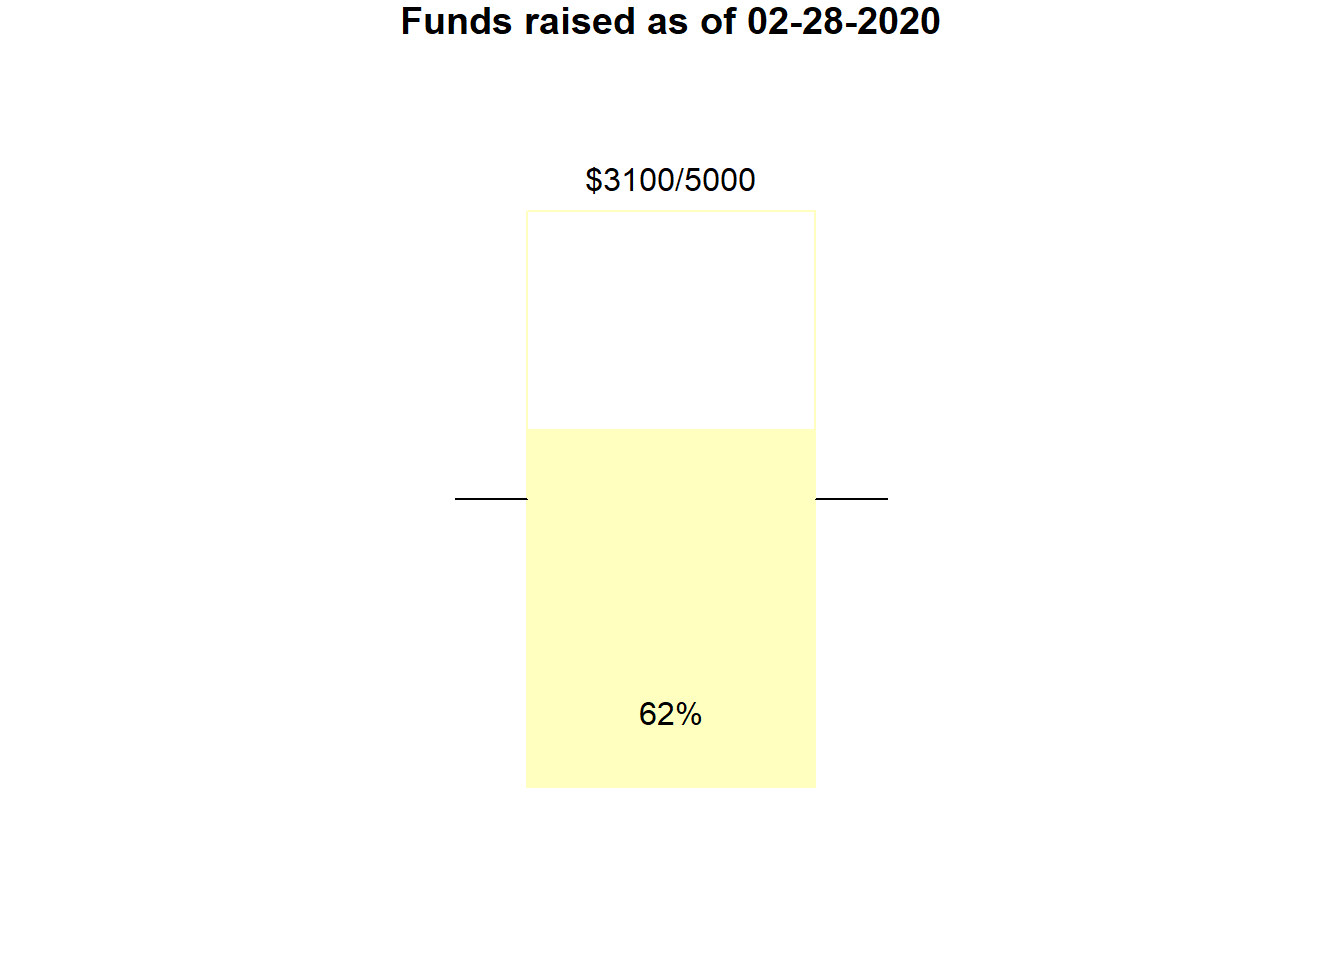
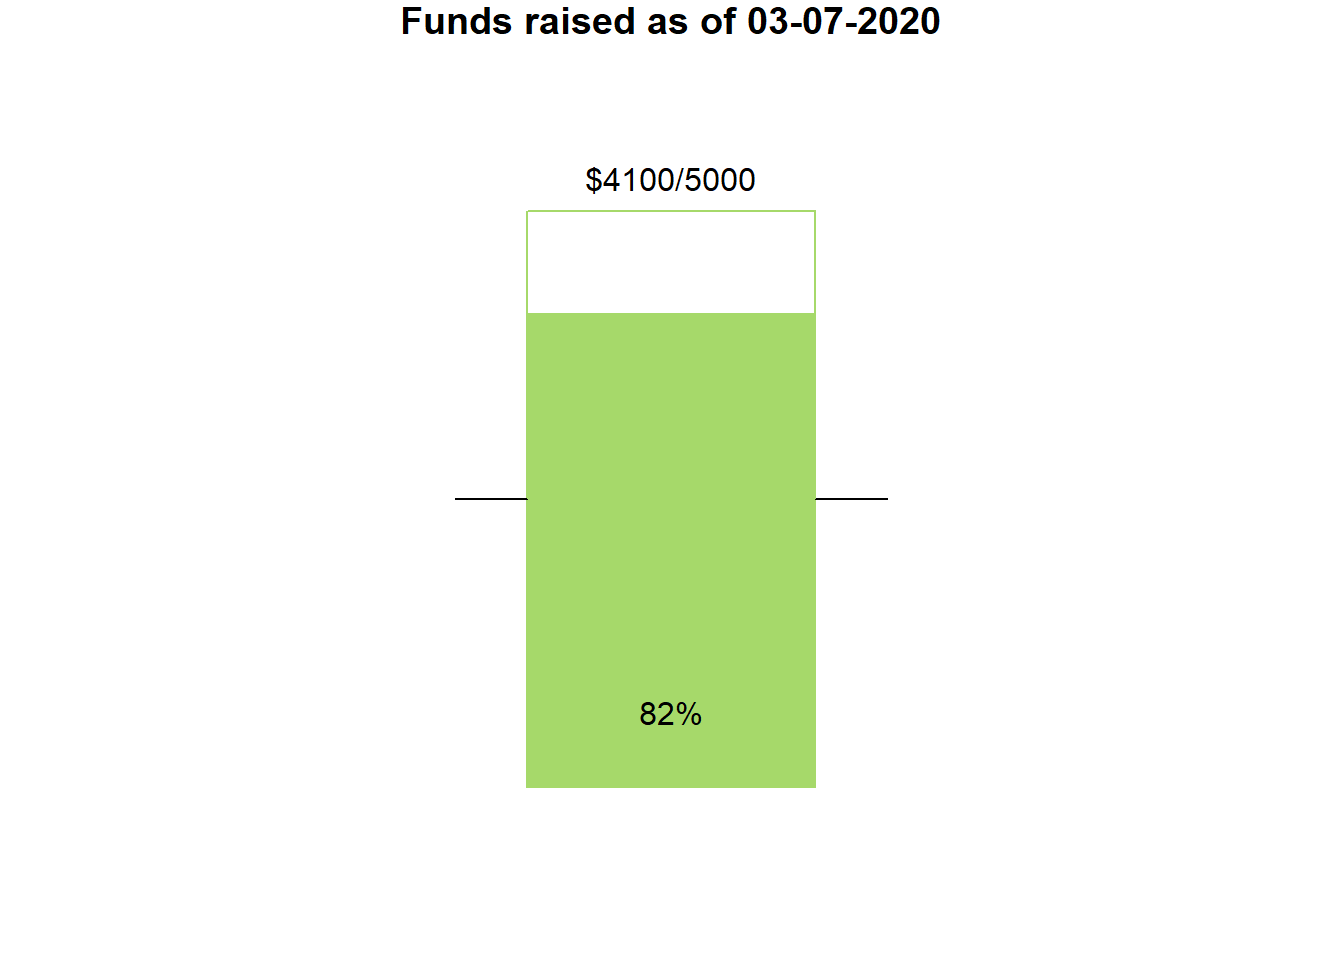
add funds

Changed region(s): [[0.375, 0.3125, 0.625, 0.8438], [0.5625, 0.0, 0.625, 0.0312], [0.4375, 0.1562, 0.4688, 0.2188]]

diff --git a/public/sponsors/index.html b/public/sponsors/index.html
@@ -17,7 +17,7 @@
   <meta name="description" content="Data Fest at Chico State">	
   
 
-  <meta name="generator" content="Hugo 0.58.1" />
+  <meta name="generator" content="Hugo 0.55.6" />
 
   <link href='//fonts.googleapis.com/css?family=Roboto:400,100,100italic,300,300italic,500,700,800' rel='stylesheet' type='text/css'>
 
@@ -190,6 +190,8 @@
 <p>Gifts up to $750 matched dollar-for-dollar!</p>
 
 <p>We are excited to share that ChicoStart is matching up to $500 and SAP Hosting Center has offered to match an additional $250 in dollar-for-dollar matching funds - let&rsquo;s make sure not to leave any of that money on the table! Every $5-10 helps!</p>
+
+<p>Our #CatsGaveBack $499 during Giving Day! Thank you to all our amazing donors!</p>
 
 <hr />
 
@@ -375,8 +377,8 @@ Today, Trinchero Family Estates remains deeply rooted in Napa Valley, encompassi
   <tr><td height= "50"> </td> <td></td></tr>
   
   <tr>
-    <td align="center" markdown="span"><img src="../img/clients/stoble.png" style="width:30%"></img></td>
-    <td>Stoble Coffee will be on site to help keep students caffinated throughout the event! Check them out at <a href="https://www.stobleco.com/">https://www.stobleco.com/</a>
+    <td align="center" markdown="span"><img src="../img/clients/StobleLogo.png" style="width:30%"></img></td>
+    <td>Stoble Coffee will be on site to help keep students caffinated throughout the event! Stoble is a transparent specialty coffee roaster in Chico, working to bring people and their ideas together. Currently under construction on a coffee shop and coworking space coming to downtown Chico this summer. Check out their coffee site <a href="https://www.stobleco.com/">https://www.stobleco.com/</a> and coworking site: <a href="https://www.stobleworkplace.com/">https://www.stobleworkplace.com/</a>
     </td>
   </tr>
   

diff --git a/public/404.html b/public/404.html
@@ -17,7 +17,7 @@
   <meta name="description" content="Data Fest at Chico State">	
   
 
-  <meta name="generator" content="Hugo 0.58.1" />
+  <meta name="generator" content="Hugo 0.55.6" />
 
   <link href='//fonts.googleapis.com/css?family=Roboto:400,100,100italic,300,300italic,500,700,800' rel='stylesheet' type='text/css'>
 

diff --git a/public/about/index.html b/public/about/index.html
@@ -17,7 +17,7 @@
   <meta name="description" content="Data Fest at Chico State">	
   
 
-  <meta name="generator" content="Hugo 0.58.1" />
+  <meta name="generator" content="Hugo 0.55.6" />
 
   <link href='//fonts.googleapis.com/css?family=Roboto:400,100,100italic,300,300italic,500,700,800' rel='stylesheet' type='text/css'>
 

diff --git a/public/blog/2015/06/24/creating-a-new-theme/index.html b/public/blog/2015/06/24/creating-a-new-theme/index.html
@@ -17,7 +17,7 @@
   <meta name="description" content="Data Fest at Chico State">	
   
 
-  <meta name="generator" content="Hugo 0.58.1" />
+  <meta name="generator" content="Hugo 0.55.6" />
 
   <link href='//fonts.googleapis.com/css?family=Roboto:400,100,100italic,300,300italic,500,700,800' rel='stylesheet' type='text/css'>
 

diff --git a/public/blog/2015/07/23/2015-07-23-r-rmarkdown/index.html b/public/blog/2015/07/23/2015-07-23-r-rmarkdown/index.html
@@ -17,7 +17,7 @@
   <meta name="description" content="Data Fest at Chico State">	
   
 
-  <meta name="generator" content="Hugo 0.58.1" />
+  <meta name="generator" content="Hugo 0.55.6" />
 
   <link href='//fonts.googleapis.com/css?family=Roboto:400,100,100italic,300,300italic,500,700,800' rel='stylesheet' type='text/css'>
 

diff --git a/public/blog/2015/08/03/hugo-is-for-lovers/index.html b/public/blog/2015/08/03/hugo-is-for-lovers/index.html
@@ -17,7 +17,7 @@
   <meta name="description" content="Data Fest at Chico State">	
   
 
-  <meta name="generator" content="Hugo 0.58.1" />
+  <meta name="generator" content="Hugo 0.55.6" />
 
   <link href='//fonts.googleapis.com/css?family=Roboto:400,100,100italic,300,300italic,500,700,800' rel='stylesheet' type='text/css'>
 

diff --git a/public/blog/2015/09/17/go-is-for-lovers/index.html b/public/blog/2015/09/17/go-is-for-lovers/index.html
@@ -17,7 +17,7 @@
   <meta name="description" content="Data Fest at Chico State">	
   
 
-  <meta name="generator" content="Hugo 0.58.1" />
+  <meta name="generator" content="Hugo 0.55.6" />
 
   <link href='//fonts.googleapis.com/css?family=Roboto:400,100,100italic,300,300italic,500,700,800' rel='stylesheet' type='text/css'>
 

diff --git a/public/blog/2015/10/02/linked-post/index.html b/public/blog/2015/10/02/linked-post/index.html
@@ -17,7 +17,7 @@
   <meta name="description" content="Data Fest at Chico State">	
   
 
-  <meta name="generator" content="Hugo 0.58.1" />
+  <meta name="generator" content="Hugo 0.55.6" />
 
   <link href='//fonts.googleapis.com/css?family=Roboto:400,100,100italic,300,300italic,500,700,800' rel='stylesheet' type='text/css'>
 

diff --git a/public/blog/2015/10/10/migrate-from-jekyll/index.html b/public/blog/2015/10/10/migrate-from-jekyll/index.html
@@ -17,7 +17,7 @@
   <meta name="description" content="Data Fest at Chico State">	
   
 
-  <meta name="generator" content="Hugo 0.58.1" />
+  <meta name="generator" content="Hugo 0.55.6" />
 
   <link href='//fonts.googleapis.com/css?family=Roboto:400,100,100italic,300,300italic,500,700,800' rel='stylesheet' type='text/css'>
 

diff --git a/public/blog/index.html b/public/blog/index.html
@@ -17,7 +17,7 @@
   <meta name="description" content="Data Fest at Chico State">	
   
 
-  <meta name="generator" content="Hugo 0.58.1" />
+  <meta name="generator" content="Hugo 0.55.6" />
 
   <link href='//fonts.googleapis.com/css?family=Roboto:400,100,100italic,300,300italic,500,700,800' rel='stylesheet' type='text/css'>
 

diff --git a/public/categories/index.html b/public/categories/index.html
@@ -17,7 +17,7 @@
   <meta name="description" content="Data Fest at Chico State">	
   
 
-  <meta name="generator" content="Hugo 0.58.1" />
+  <meta name="generator" content="Hugo 0.55.6" />
 
   <link href='//fonts.googleapis.com/css?family=Roboto:400,100,100italic,300,300italic,500,700,800' rel='stylesheet' type='text/css'>
 

diff --git a/public/categories/lorem/index.html b/public/categories/lorem/index.html
@@ -17,7 +17,7 @@
   <meta name="description" content="Data Fest at Chico State">	
   
 
-  <meta name="generator" content="Hugo 0.58.1" />
+  <meta name="generator" content="Hugo 0.55.6" />
 
   <link href='//fonts.googleapis.com/css?family=Roboto:400,100,100italic,300,300italic,500,700,800' rel='stylesheet' type='text/css'>
 
